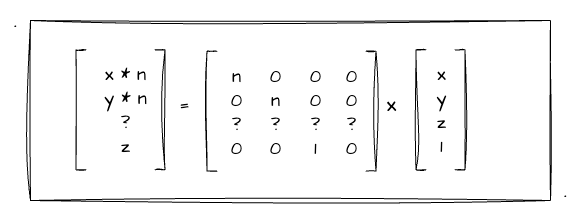
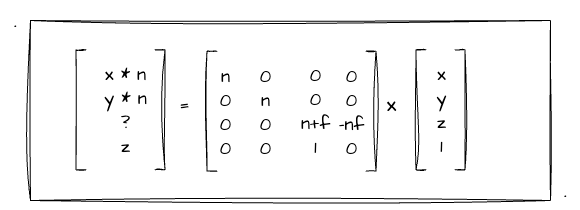
feat: 透视投影矩阵

diff --git a/docs/content/五、WebGL三维世界/7. 透视投影.md b/docs/content/五、WebGL三维世界/7. 透视投影.md
@@ -86,8 +86,34 @@ xA = x * (n / z)
 
 ![7.11](../../public/images/fifth/7.11.png)
 
-经过这个矩阵的变化，我们已经将四棱台变换成一个长方体了，那最后的透视投影矩阵还差一把就是把这个**长方体给标准化**了。这么说好像很抽象，其实不然，只要将其再乘上我们上一节所推导的**正交投影矩阵**就可以了！这里我就不介绍了，感兴趣的同学自己乘一下！
+经过这个矩阵的变化，我们已经将四棱台变换成一个长方体了，那最后的透视投影矩阵还差一把就是把这个**长方体给标准化**了。这么说好像很抽象，其实不然，只要将其再乘上我们上一节所推导的**正交投影矩阵**就可以了！这里我就不展开了，直接给结果：
 
-## 表示透视投影
+![7.13](../../public/images/fifth/7.13.png)
 
-透视投影如何表示？回顾一下我们是如何表示正交投影的呢？是不是直接通过 `left、right、top、bottom、near、far` 这些点位来表示的呢？但是透视投影并不是使用这些来表示，而是使用使用 fov 和 aspect。
+## 如何表示透视投影？
+
+透视投影如何表示，或者说如何配置呢？回顾一下我们上一节是如何配置正交投影矩阵的？是不是直接通过 `left、right、top、bottom、near、far` 这些点位的相关值来配置的呢？但是透视投影并不是使用这些来表示和配置的，而是使用 `fov`、`aspect`、`near`、`far` 这四个值。我们简单看看他们分别是什么。
+
+- fov：垂直方向视角，角度越大，视野越广，物体越小。具体可参考下图的**绿色角**
+![7.12](../../public/images/fifth/7.12.png)
+- aspect：近裁剪面的宽高比
+- near、far：指定近、远裁剪面的位置
+
+再回到我们之前的一张图中：
+
+![7.1](../../public/images/fifth/7.1.png)
+
+如上图，对应 fov 的角为 **`T1-原点-B1`**。并且，根据图我们可以知道，我们把**四棱台放到正中间**的时候，远近裁剪面都满足 `right`等于`-left`，`top`等于`-bottom`。所以，我们可以把`r-l`变为`2r`，`t-b`变为`2t`。于是，我们可以把前文推导出来的透视投影矩阵再做进一步的**简化**如下：
+
+![7.14](../../public/images/fifth/7.14.png)
+
+还记得前面我们设 fov 为`θ`的这一值吗？我们通过**三角函数**可以得到如下等式：
+
+![7.16](../../public/images/fifth/7.16.png)
+
+根据换算出来的等式，我们将其代入上述的矩阵中，可以将其完全转化成通过 `fov、aspect、near、far` 这四个值来配置。具体换算过程我就不逐步演示了，有兴趣的同学可以自行推导。直接看结果：
+
+![7.15](../../public/images/fifth/7.15.png)
+
+上图即为 fov 为 `θ`，宽高比为`a`时的透视投影矩阵了。
+

diff --git a/docs/content/一、前言/0. 目录.md b/docs/content/一、前言/0. 目录.md
@@ -209,4 +209,8 @@
 
       - [了解透视投影](/content/五、WebGL三维世界/7.%20%E9%80%8F%E8%A7%86%E6%8A%95%E5%BD%B1.html#了解透视投影)
 
+      - [透视投影矩阵](/content/五、WebGL三维世界/7.%20%E9%80%8F%E8%A7%86%E6%8A%95%E5%BD%B1.html#透视投影矩阵)
+
+      - [如何表示透视投影？](/content/五、WebGL三维世界/7.%20%E9%80%8F%E8%A7%86%E6%8A%95%E5%BD%B1.html#如何表示透视投影)
+
 
